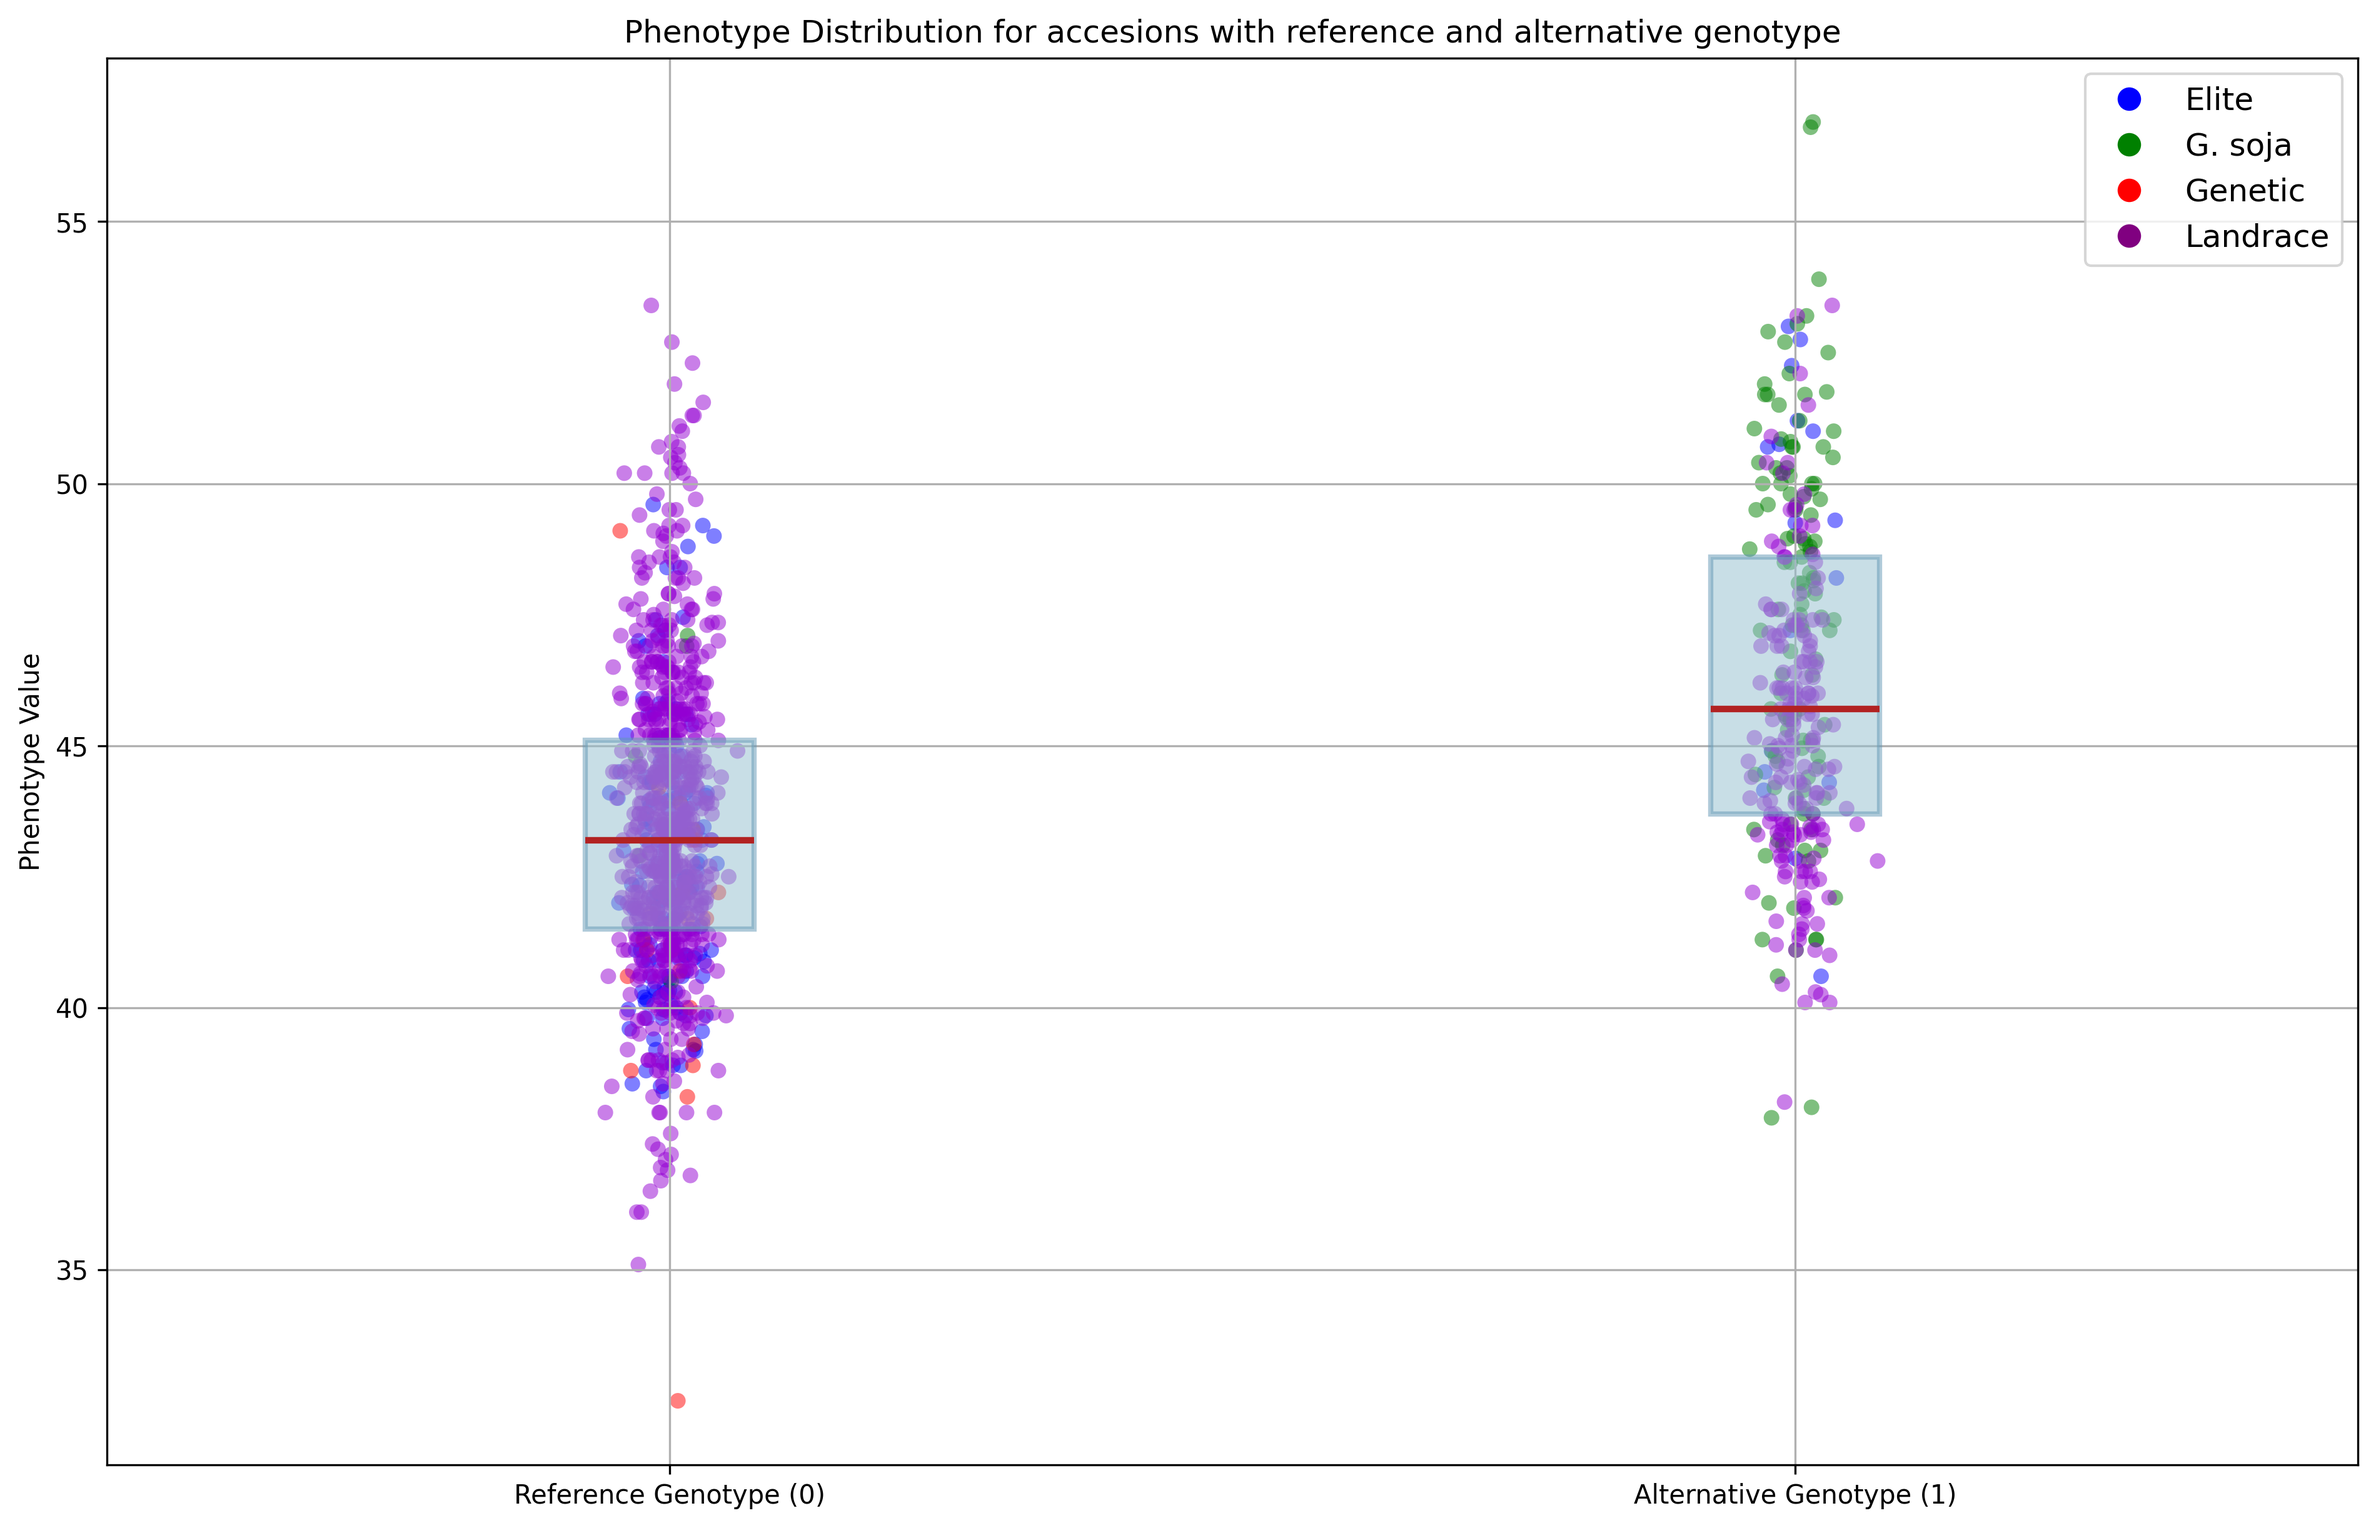
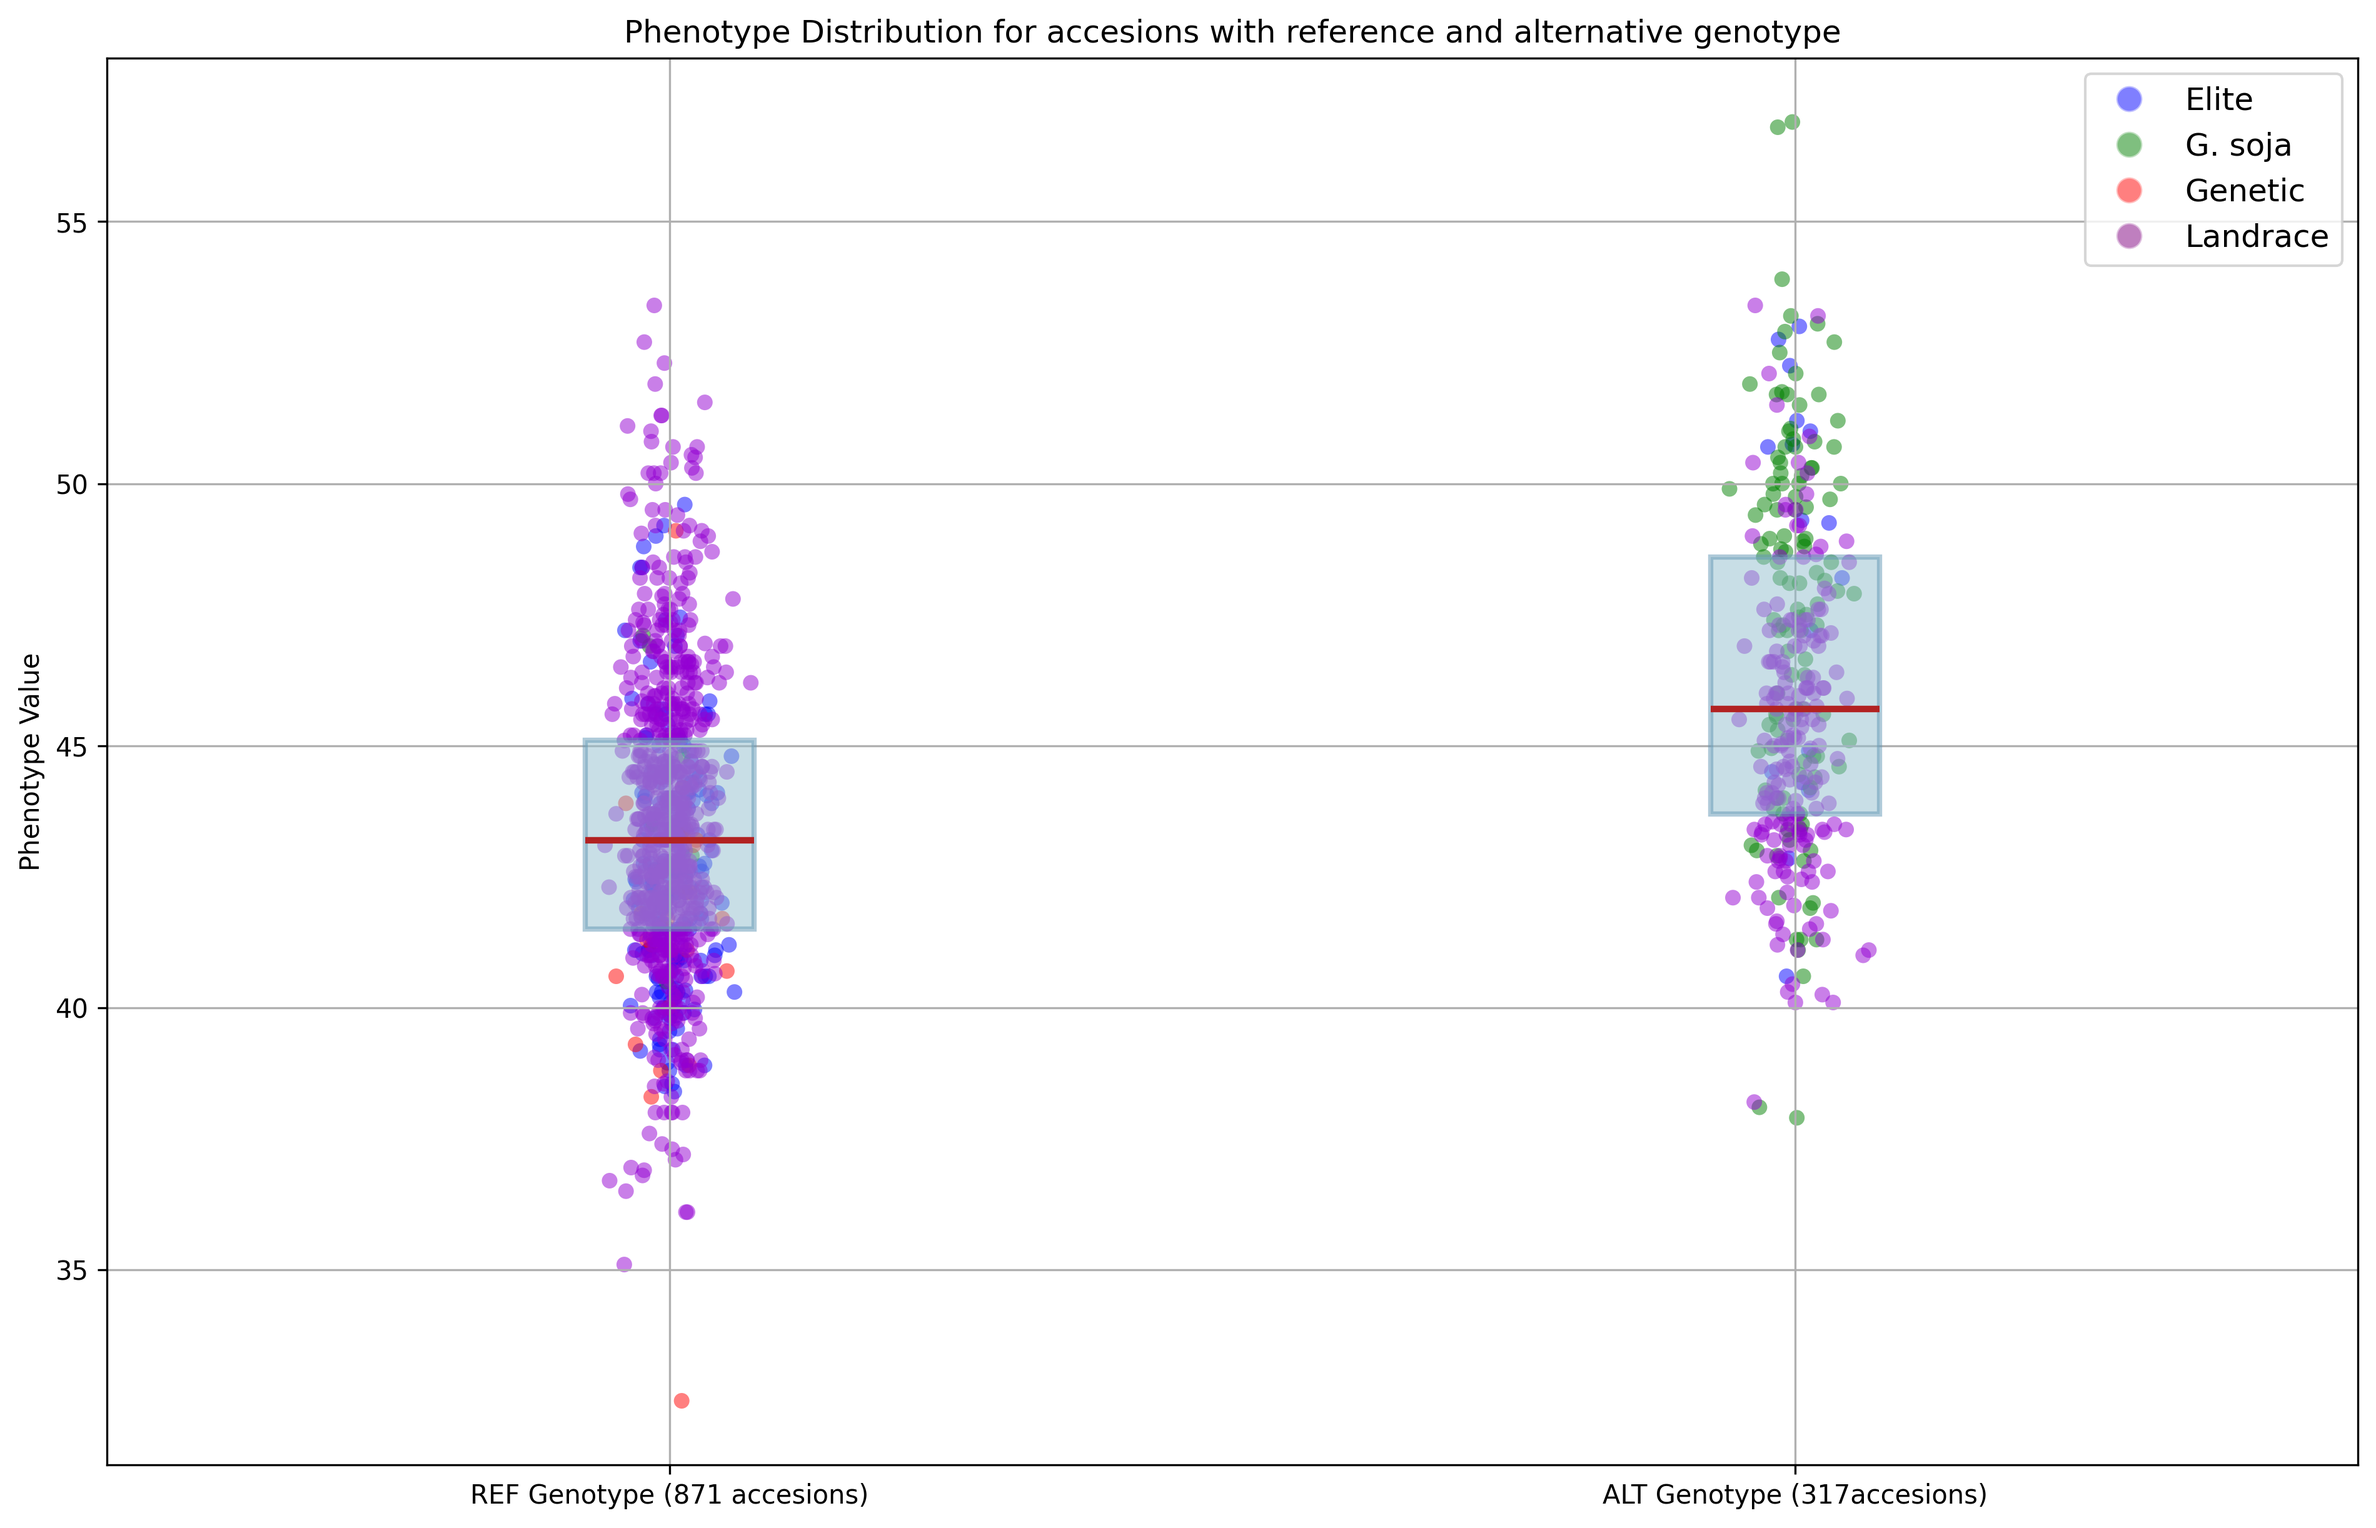
graphs optimalisations

diff --git a/scripts/quant_phenotype_binarization/phenotype_formating.py b/scripts/quant_phenotype_binarization/phenotype_formating.py
@@ -193,7 +193,7 @@ def average_accuracy_from_dataframes(genotype_dataframe, phenotype_dataframe):
     return (acc_MUT + acc_WT) / 2
 
 def histogram(df):
-    ''' Create and plot the histogram for the phenotype data '''
+    ''' Create and plot the histogram for the phenotype data and analyze number of modes and the local maximums'''
     
     # We will also analyze the distribution, if the distribution is multimodal we want to detect modes and local maxims/ minims 
     def gaussian_kernel(u):
@@ -233,20 +233,22 @@ def histogram(df):
     # KDE calculation
     kde_values = kernel_density_estimation(data, x_grid, bandwidth) # array of n elements
 
-    # Histogram calculations
-    counts, bin_edges = np.histogram(data, bins='auto', density=True)  
+    # Histogram and KDE function calculations
+    counts, bin_edges = np.histogram(data, bins='auto')  
     bin_centers = 0.5 * (bin_edges[:-1] + bin_edges[1:])
+    bin_width = bin_edges[1] - bin_edges[0]
+    kde_values = kde_values * len(data) * bin_width  # scale kde values, becaus it is a probability density function, but we represent histogram by counts of accesions in each bin not the probability
 
-    # plot histogram
+    # plot histogram and approximation line
     plt.figure(figsize=(10, 6))
-    plt.hist(data, bins=bin_edges, density=True, color='#93BFCF', edgecolor='#6096B4', histtype='stepfilled', linewidth=1.5, alpha=0.8, label='Histogram')
-    plt.plot(x_grid, kde_values, label='KDE', color='firebrick', linewidth=2, alpha=0.4) #plotting the KDE function
+    plt.hist(data, bins=bin_edges, color='#93BFCF', edgecolor='#6096B4', histtype='stepfilled', linewidth=1.5, alpha=0.5, label='Histogram') # plotting histogram
+    plt.plot(x_grid, kde_values, color='green', linewidth=3, alpha=0.3, label = 'scaled KDE to approximate histogram modes') # plotting the KDE function
     
     # Peak and modes detection using the first derivative of KDE
     kde_diff = np.diff(kde_values)  # First derivative of the KDE function, array of n-1 values representing differences
     # chceking where the sign of derivation changes (element-wise product of consecutive derivative values is negative and check if first value of pair was positive which means function was increasing before it started decreasing = peak )
     peaks = (kde_diff[:-1] * kde_diff[1:] < 0) & (kde_diff[:-1] > 0) # produces a boolean array where True symbolizes a detected peak
-    peak_x = x_grid[1:-1][peaks]  # Align x_grid with peaks
+    peak_x = x_grid[1:-1][peaks]  # Align x_grid with peaks to obtain x indices of the peaks
 
     # Histogram peak refinement around KDE peaks
     search_radius = 2  # Adjusted search radius: number of bins to search around the KDE peak
@@ -255,13 +257,14 @@ def histogram(df):
     for idx in peak_indices:
         local_indices = range(max(0, idx - search_radius), min(len(bin_centers), idx + search_radius + 1)) # bins around the detected peaks (the area ranges from detected peak -  search radius to detected peak +search radius)
         local_max = np.argmax(counts[local_indices]) # returns the index of highest bin in the searched area
-        if counts[local_indices[local_max]] > max(counts)*0.03:
+        if counts[local_indices[local_max]] > max(counts)*0.03: # treshhold, dont consider peaks smaller than 3 % of the highest peak
             refined_peaks.append(local_indices[local_max]) # add the indices to the array that is later used for plotting the peak dot
         
     # Plot refined histogram peaks
-    plt.scatter(bin_centers[refined_peaks], counts[refined_peaks], color='green', label='Refined Histogram Peaks')
+    plt.scatter(bin_centers[refined_peaks], counts[refined_peaks], color='green', label='Histogram Peaks')
 
     # Add grid, labels, and title
+    plt.legend()
     plt.grid(True, which='both', linestyle='--', linewidth=0.5)
     plt.xlabel('Phenotype Values')
     plt.ylabel('Frequency')
@@ -319,14 +322,16 @@ def boxplot(genotype_df, phenotype_df):
     # enumerate encapsulates all objects (DataFrameGroupBy) merged_df.groupby returns (In this case 2 objects: Both objects contain two values (key, group)
     name_setter = [] # list for labels describing a boxplot ('reference', 'alternative')
     name_setter_index = [] # correct indexes for titles, boxplots are indexed from 1, because index 0 belongs to y ax
+    counts_per_group = []  # Store counts to display later
     for i, (key, group) in enumerate(merged_df.groupby('Genotype')):
          # Append labels and indices
         if key == 0:
-            name_setter.append(f'Reference Genotype ({key})')
+            name_setter.append(f'REF Genotype ({len(group)} accesions)')
             name_setter_index.append(i + 1)
         elif key == 1:
-            name_setter.append(f'Alternative Genotype ({key})')
+            name_setter.append(f'ALT Genotype ({len(group)}accesions)')
             name_setter_index.append(i + 1)
+        counts_per_group.append(len(group))
 
         # jitered x values:
         x = np.random.normal(i + 1, 0.02, size=len(group))
@@ -334,10 +339,10 @@ def boxplot(genotype_df, phenotype_df):
 
     #adding a legend
     legend_elements = [
-        plt.Line2D([0], [0], marker='o', color='w', label='Elite', markerfacecolor='blue', markersize=10),
-        plt.Line2D([0], [0], marker='o', color='w', label='G. soja', markerfacecolor='green', markersize=10),
-        plt.Line2D([0], [0], marker='o', color='w', label='Genetic', markerfacecolor='red', markersize=10),
-        plt.Line2D([0], [0], marker='o', color='w', label='Landrace', markerfacecolor='purple', markersize=10)
+        plt.Line2D([0], [0], marker='o', color='w', label='Elite', markerfacecolor='blue', alpha = 0.5, markersize=10),
+        plt.Line2D([0], [0], marker='o', color='w', label='G. soja', markerfacecolor='green', alpha = 0.5, markersize=10),
+        plt.Line2D([0], [0], marker='o', color='w', label='Genetic', markerfacecolor='red', alpha = 0.5, markersize=10),
+        plt.Line2D([0], [0], marker='o', color='w', label='Landrace', markerfacecolor='purple', alpha = 0.5, markersize=10)
     ]
     ax.legend(handles=legend_elements, loc='upper right', fontsize='large')
 
@@ -383,7 +388,7 @@ accesions_without_phenotype = len(result_df)
 histogram(phenotype_df)
 boxplot(binarised_genotype_df, phenotype_df)
 
-print(f'Number of accesions that coul not be matched to phenotype value: {accesions_without_phenotype}.')
+print(f'Number of accesions that could not be matched to phenotype value: {accesions_without_phenotype}.')
 print(f"The phenotype file contains {len(phenotype_df.Phenotype)} samples.")
 print(f"The MINIMAL VALUE of the trait is:   {stats['min']:.2f}.")
 print(f"The MAXIMAL VALUE of the trait is:   {stats['max']:.2f}.")
